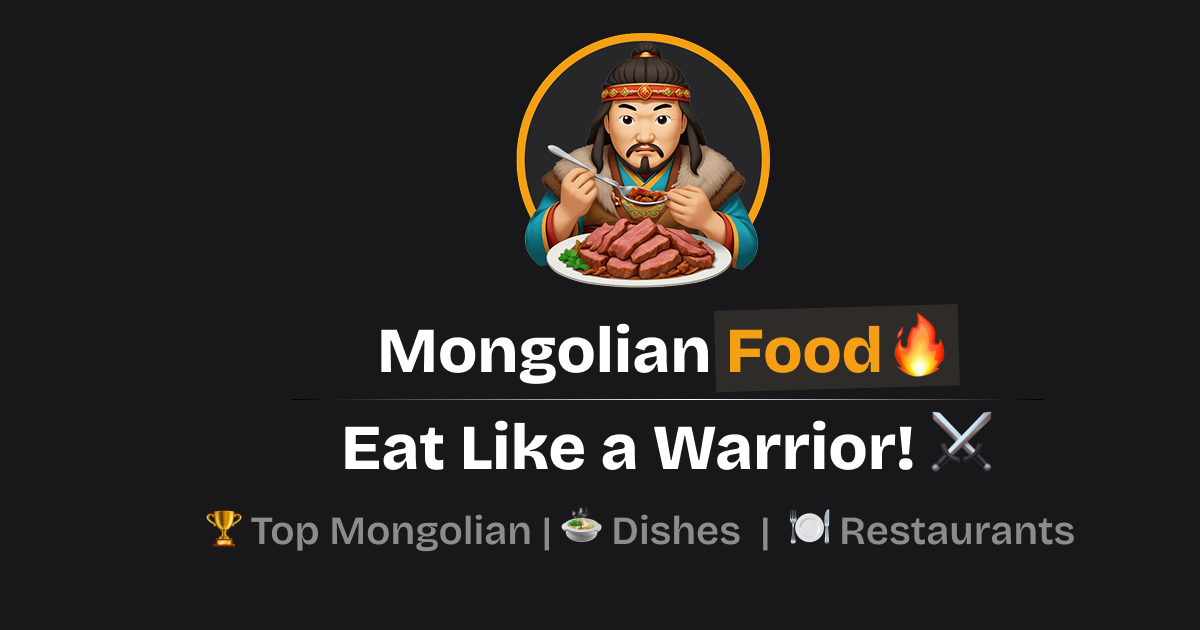
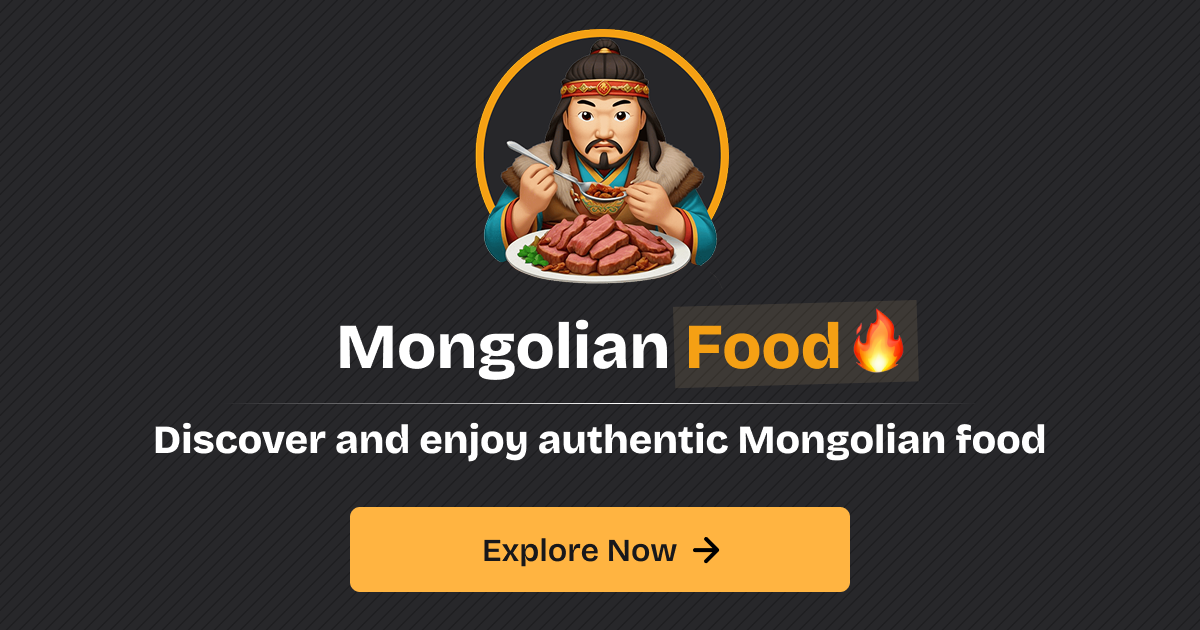
Update README.md: Replace images with new screenshots and update opengraph image

Changed region(s): [[0.1233, 0.4524, 0.8942, 0.754], [0.37, 0.0302, 0.6475, 0.4825], [0.1542, 0.7841, 0.8942, 0.9651]]

diff --git a/README.md b/README.md
@@ -1,6 +1,6 @@
 # 🇲🇳🔥 Mongol.Food
 
-<img width="1126" alt="Screenshot 2025-02-20 at 4 48 58 AM" src="https://github.com/user-attachments/assets/ae4c8f3d-407c-4aac-82ea-f90ef1c1118f" />
+![opengraph-image](https://github.com/user-attachments/assets/e7fdc059-62f2-46aa-b50d-a77c4ee0f6e6)
 
 ## 🚀 Introduction
 
@@ -55,11 +55,11 @@ This project is actively being developed! Here’s what I’m currently working 
 
 ## 📸 Screenshots
 
-![Screenshot-1](https://github.com/user-attachments/assets/85e6651b-745b-41e6-be5f-b7ce06548633)
+<img width="2075" alt="s-01" src="https://github.com/user-attachments/assets/78cb7e62-c4ca-4845-b1cd-ce7ac9b4677d" />
 
-![Screenshot-2)](https://github.com/user-attachments/assets/9bb1caa3-f99c-4b9c-a2f5-933b7ee4af41)
+<img width="2076" alt="s-02" src="https://github.com/user-attachments/assets/d66d3b80-aa64-48bb-bc04-bfdb7bcfd23b" />
 
-![Screenshot-3)](https://github.com/user-attachments/assets/ed0c1a6c-fbaf-4386-997c-eb770208e7fd)
+<img width="2076" alt="s-03" src="https://github.com/user-attachments/assets/324817c3-2096-4d9a-af8e-2360bf3e1ddf" />
 
 ## Project Details
 
